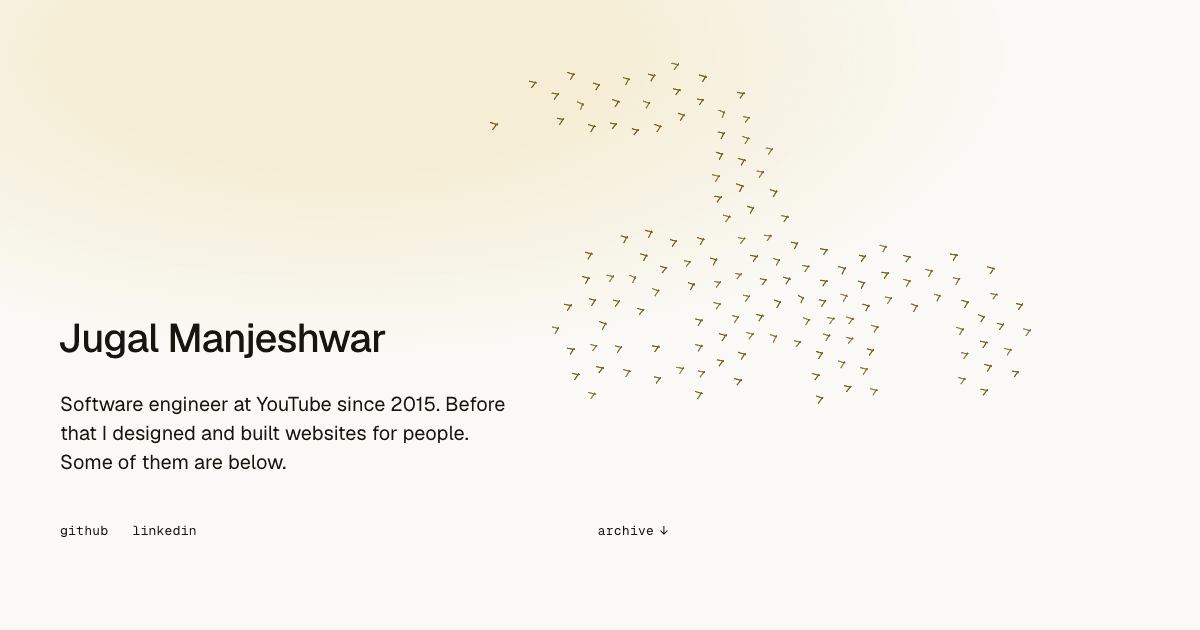
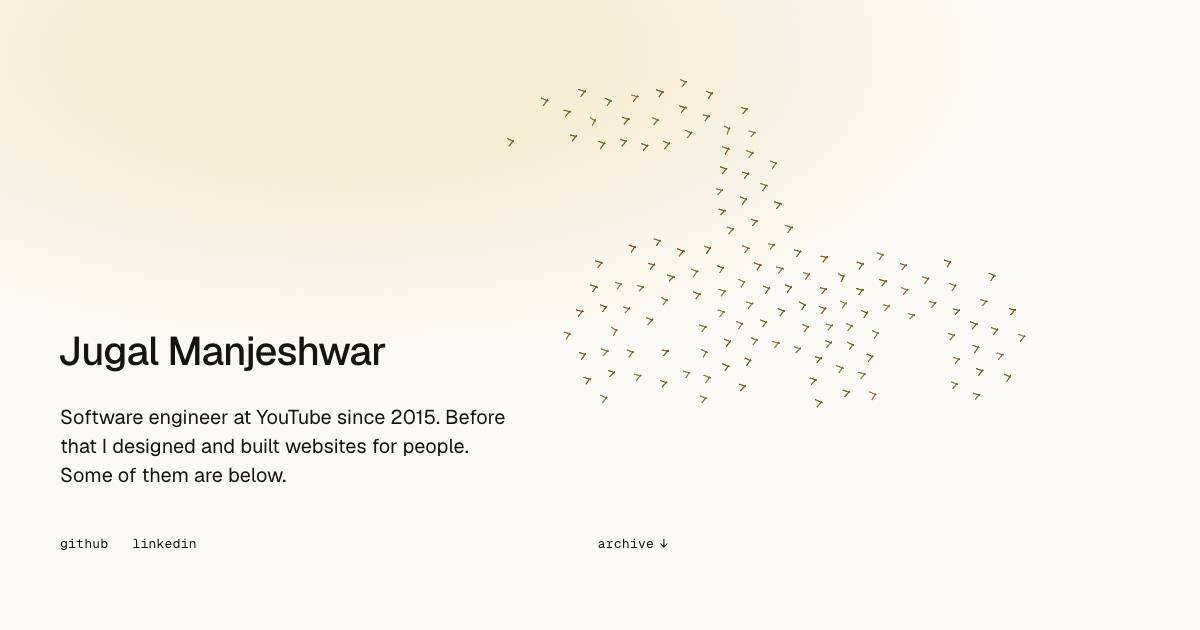
The flock fills the sky it is given, and the hero holds at any size
The mark was a fraction of the width under a flat 620 px cap, and the cap
bound above about 1476 px — so a 2560-wide desktop wore exactly the same mark
as a 1440 one and read as a small huddle marooned in a lot of empty page. It
now asks for min(40% of the canvas width, 58% of its height x aspect, 840).

A bird is one fixed size everywhere, so a wider mark is a wider point PITCH:
the flock spreads out and thins rather than magnifying, which is the whole
point — fill the space, don't zoom into it. As a multiple of the 10.4 px
wingspan: 1.73 at 1280, 1.93 at 1440, 2.22 at 1680, 2.52 at 1920, 2.59 at
2560. The fraction is 0.40 and not 0.42 precisely so 1440 keeps what it had;
0.42 asked for 655 px there, which overlapped enough content that the fit
ladder shrank it to 524 — smaller than before, in the one place it must not
move.

840 is where it stops, and that is legibility rather than taste. Uncapped,
2560 asked for 1126 px at a 3.31 pitch, and at that spacing the strokes stop
joining and the jm comes apart into a constellation: the same
pitch-to-wingspan failure the phone has from the other end, where the birds
weld into a blob. 2.6 is the last ratio at which it still reads.

The height term is desktop-only, and the gate is why. Applied to phones as
well it shrank the LANDSCAPE mark enough to drop its share of the words below
FIT_GIVEUP, which put a mark back onto a landscape phone — the exact failure
homeOut exists to prevent, caught by the check that pins it.
[…]

diff --git a/index.html b/index.html
@@ -84,7 +84,7 @@
 <canvas id="flock" aria-hidden="true"></canvas>
 <!-- Without script, a still of a seeded flock so the page is never blank. -->
 <!--STILL-->
-<svg class="still" viewBox="0 0 1560 1020" preserveAspectRatio="xMidYMid meet" aria-hidden="true" focusable="false"><polyline points="711.9,275.5 710.9,270.8 706.2,272.2" opacity="0.92"/><polyline points="1044.4,533.5 1048.1,536.6 1051.2,533.0" opacity="0.94"/><polyline points="656.8,297.4 653.9,293.5 650.4,296.8" opacity="1.00"/><polyline points="975.0,489.4 969.8,490.0 971.5,494.9" opacity="0.94"/><polyline points="629.8,518.8 625.3,516.5 624.9,521.5" opacity="0.83"/><polyline points="808.8,432.1 804.2,434.3 807.9,437.9" opacity="0.91"/><polyline points="632.4,277.4 630.5,272.6 626.5,275.8" opacity="0.95"/><polyline points="756.9,376.8 753.5,373.2 750.5,377.1" opacity="0.98"/><polyline points="1051.4,578.9 1047.6,575.9 1045.2,580.2" opacity="1.00"/><polyline points="825.6,445.8 822.6,450.1 827.5,451.6" opacity="1.00"/><polyline points="592.1,548.3 593.5,553.0 597.9,550.8" opacity="1.00"/><polyline points="631.0,568.1 628.2,572.4 633.2,573.2" opacity="0.82"/><polyline points="1123.2,315.1 1119.2,312.4 1116.9,316.6" opacity="0.79"/><polyline points="910.4,486.2 907.9,490.8 913.0,491.7" opacity="0.93"/><polyline points="787.2,443.5 790.7,447.0 794.4,443.6" opacity="1.00"/><polyline points="773.1,378.3 768.2,378.2 768.8,383.0" opacity="0.98"/><polyline points="863.4,597.5 867.2,593.9 862.6,591.4" opacity="0.98"/><polyline points="901.6,594.5 904.7,590.8 899.9,589.7" opacity="0.77"/><polyline points="885.5,592.5 889.8,590.0 886.6,586.3" opacity="1.00"/><polyline points="675.1,433.6 670.8,432.3 667.9,435.8" opacity="0.90"/><polyline points="871.5,534.1 869.2,529.7 866.2,533.6" opacity="0.88"/><polyline points="887.4,557.3 887.7,552.5 883.1,553.7" opacity="0.90"/><polyline points="516.6,293.6 511.5,293.4 512.5,298.4" opacity="1.00"/><polyline points="1071.6,527.4 1071.6,532.3 1076.0,530.2" opacity="0.80"/><polyline points="903.9,550.0 904.6,554.2 907.8,551.4" opacity="0.98"/><polyline points="980.7,491.9 985.7,491.0 983.8,486.3" opacity="0.92"/><polyline points="847.6,508.6 852.4,509.9 852.9,505.0" opacity="0.82"/><polyline points="1048.5,472.4 1053.6,471.6 1051.4,467.0" opacity="0.97"/><polyline points="933.0,490.7 928.3,492.8 931.5,496.9" opacity="0.83"/><polyline points="883.2,527.6 880.5,531.4 885.1,532.3" opacity="0.84"/><polyline points="786.5,472.1 791.2,470.8 787.9,467.2" opacity="0.98"/><polyline points="1054.7,518.2 1050.4,515.4 1048.7,520.2" opacity="0.86"/><polyline points="711.7,452.9 710.3,448.0 705.8,450.2" opacity="0.84"/><polyline points="969.8,475.0 964.7,475.3 965.8,480.3" opacity="0.88"/><polyline points="712.1,574.2 710.1,569.8 706.9,573.4" opacity="0.80"/><polyline points="574.3,278.0 570.0,275.5 568.3,280.1" opacity="0.90"/><polyline points="711.1,256.9 710.2,251.8 705.5,254.1" opacity="1.00"/><polyline points="695.2,572.3 690.2,571.4 691.0,576.5" opacity="0.94"/><polyline points="937.3,471.0 932.2,470.3 932.2,475.5" opacity="1.00"/><polyline points="953.2,473.5 948.8,470.7 947.1,475.6" opacity="0.77"/><polyline points="612.6,594.7 607.8,596.7 611.3,600.6" opacity="0.84"/><polyline points="575.2,516.4 571.4,513.3 570.3,518.1" opacity="0.90"/><polyline points="1030.0,532.4 1030.0,537.3 1034.5,535.4" opacity="0.91"/><polyline points="791.0,528.8 786.8,531.3 790.8,534.1" opacity="0.90"/><polyline points="674.7,293.5 670.2,295.8 673.8,299.3" opacity="0.99"/><polyline points="1051.9,596.0 1047.4,596.6 1047.5,601.1" opacity="0.97"/><polyline points="845.1,530.6 847.8,534.8 850.6,530.6" opacity="0.83"/><polyline points="965.1,446.1 966.1,451.0 970.8,449.2" opacity="0.99"/><polyline points="588.5,569.4 592.8,572.3 594.5,567.5" opacity="0.95"/><polyline points="674.0,548.4 670.2,551.9 674.5,554.7" opacity="1.00"/><polyline points="752.5,524.9 754.0,529.8 758.0,526.7" opacity="1.00"/><polyline points="851.1,476.8 848.0,472.8 844.5,476.4" opacity="0.82"/><polyline points="906.5,441.6 908.3,446.2 912.5,443.7" opacity="1.00"/><polyline points="819.5,468.7 823.8,471.6 825.0,466.6" opacity="0.93"/><polyline points="668.5,273.9 673.5,272.4 671.8,267.5" opacity="0.90"/><polyline points="752.4,484.7 753.1,489.7 757.3,487.0" opacity="0.80"/><polyline points="784.2,370.4 788.2,373.7 790.3,369.0" opacity="0.96"/><polyline points="1061.6,576.2 1066.4,574.9 1064.2,570.4" opacity="0.99"/><polyline points="1036.2,491.0 1032.5,494.5 1036.8,497.3" opacity="1.00"/><polyline points="881.3,534.3 884.0,538.2 887.2,534.6" opacity="0.83"/><polyline points="745.4,396.3 750.2,395.1 748.3,390.6" opacity="0.91"/><polyline points="793.1,485.3 790.8,490.0 795.9,490.9" opacity="0.98"/><polyline points="628.3,552.4 626.5,557.0 631.4,557.9" opacity="0.89"/><polyline points="784.1,401.3 785.9,396.4 780.8,396.5" opacity="1.00"/><polyline points="669.9,257.8 670.5,253.0 665.6,253.0" opacity="1.00"/><polyline points="633.1,494.4 629.1,491.4 626.9,495.9" opacity="0.85"/><polyline points="871.2,577.1 867.4,574.0 864.8,578.1" opacity="0.89"/><polyline points="731.1,573.4 725.9,573.0 726.9,578.1" opacity="0.87"/><polyline points="1061.8,556.8 1067.0,557.1 1065.8,552.0" opacity="0.78"/><polyline points="903.4,569.7 902.8,573.7 906.0,576.2" opacity="0.75"/><polyline points="771.8,553.9 767.0,553.8 767.2,558.6" opacity="0.98"/><polyline points="776.0,334.4 770.9,333.5 771.7,338.6" opacity="0.93"/><polyline points="770.8,291.8 770.5,297.0 775.7,297.2" opacity="0.79"/><polyline points="720.9,530.6 725.6,531.1 723.9,526.6" opacity="0.90"/><polyline points="753.5,288.6 754.2,293.7 758.9,291.4" opacity="0.89"/><polyline points="794.7,513.2 791.1,509.4 788.4,513.9" opacity="0.93"/><polyline points="692.9,448.0 689.7,450.6 690.5,454.6" opacity="0.99"/><polyline points="589.7,253.8 587.8,257.8 590.6,261.3" opacity="0.88"/><polyline points="633.1,297.1 631.4,292.5 627.8,295.9" opacity="1.00"/><polyline points="705.7,231.2 706.8,235.8 711.4,234.4" opacity="0.87"/><polyline points="771.4,269.1 773.3,273.6 776.7,270.0" opacity="1.00"/><polyline points="906.5,539.2 902.6,535.8 900.2,540.3" opacity="0.83"/><polyline points="731.1,256.4 729.4,251.7 725.0,254.0" opacity="1.00"/><polyline points="728.5,270.7 725.6,275.0 730.4,276.8" opacity="0.93"/><polyline points="730.9,546.5 727.2,549.9 731.7,552.1" opacity="0.86"/><polyline points="1026.4,475.3 1030.7,472.5 1027.0,469.0" opacity="0.87"/><polyline points="650.6,251.8 650.6,256.9 655.4,255.2" opacity="0.91"/><polyline points="870.3,448.9 865.7,450.8 869.3,454.3" opacity="1.00"/><polyline points="886.7,518.7 885.6,514.0 881.0,515.8" opacity="0.91"/><polyline points="614.2,296.3 610.8,292.5 608.6,297.0" opacity="0.93"/><polyline points="731.1,435.9 728.9,431.5 724.8,434.2" opacity="0.99"/><polyline points="755.1,310.1 752.0,313.9 756.8,315.0" opacity="0.91"/><polyline points="753.8,338.3 754.7,334.0 750.6,335.4" opacity="1.00"/><polyline points="864.2,489.0 869.0,490.6 868.5,485.6" opacity="0.93"/><polyline points="734.6,447.1 729.5,446.3 730.1,451.5" opacity="0.91"/><polyline points="679.6,445.7 674.5,446.8 677.3,451.2" opacity="0.97"/><polyline points="713.5,469.0 708.7,470.8 711.8,474.9" opacity="1.00"/><polyline points="614.8,252.3 610.3,254.7 614.2,258.1" opacity="0.99"/><polyline points="754.5,474.1 753.0,469.4 749.3,472.6" opacity="0.86"/><polyline points="676.2,475.2 671.3,473.5 671.5,478.6" opacity="0.79"/><polyline points="766.7,510.5 771.5,510.6 769.4,506.2" opacity="0.82"/><polyline points="884.2,466.5 886.6,470.8 889.3,466.7" opacity="0.91"/><polyline points="772.7,316.0 768.1,318.2 771.4,322.2" opacity="0.89"/><polyline points="615.2,472.9 610.3,471.9 611.5,476.7" opacity="1.00"/><polyline points="875.0,511.5 870.1,510.7 870.0,515.7" opacity="0.79"/><polyline points="727.3,596.3 723.9,592.8 722.2,597.4" opacity="0.83"/><polyline points="686.0,431.9 690.2,434.5 692.0,429.9" opacity="0.93"/><polyline points="657.2,493.5 652.4,492.4 652.2,497.4" opacity="0.90"/><polyline points="787.9,437.6 788.9,432.8 784.2,433.9" opacity="0.80"/><polyline points="807.5,406.7 807.6,411.5 812.4,410.9" opacity="0.91"/><polyline points="791.6,350.2 788.5,353.9 793.0,355.7" opacity="0.81"/><polyline points="548.4,262.4 545.0,258.7 542.1,262.8" opacity="0.89"/><polyline points="768.7,468.7 769.3,473.9 773.9,471.6" opacity="0.86"/><polyline points="1028.3,549.3 1032.0,552.6 1034.8,548.5" opacity="0.83"/><polyline points="623.6,471.5 628.4,471.8 626.6,467.3" opacity="0.80"/><polyline points="870.2,475.7 870.0,471.3 866.2,473.6" opacity="1.00"/><polyline points="801.6,449.4 806.8,449.3 806.5,444.1" opacity="0.87"/><polyline points="795.5,331.2 791.2,333.5 795.2,336.3" opacity="0.81"/><polyline points="903.1,470.3 908.2,469.9 905.8,465.4" opacity="1.00"/><polyline points="1068.8,516.3 1072.0,512.1 1067.2,510.2" opacity="1.00"/><polyline points="574.1,539.0 569.9,536.4 568.0,540.9" opacity="0.83"/><polyline points="1033.6,571.8 1030.8,576.1 1035.8,577.2" opacity="0.79"/><polyline points="775.9,570.7 770.8,570.6 772.2,575.5" opacity="1.00"/><polyline points="608.8,449.5 605.7,452.9 610.0,454.5" opacity="0.95"/><polyline points="609.6,549.3 610.5,554.3 614.7,551.6" opacity="0.83"/><polyline points="748.9,355.7 753.6,354.3 750.5,350.6" opacity="0.86"/><polyline points="1003.8,443.3 1007.2,446.8 1010.2,443.0" opacity="1.00"/><polyline points="1043.3,559.7 1047.9,557.3 1044.2,553.6" opacity="1.00"/><polyline points="752.8,547.9 750.9,552.7 756.1,552.7" opacity="0.97"/><polyline points="612.7,493.6 607.8,492.2 608.6,497.2" opacity="1.00"/><polyline points="771.3,494.5 772.6,489.8 767.8,489.2" opacity="0.82"/><polyline points="887.7,490.4 885.2,494.8 890.1,496.4" opacity="0.74"/><polyline points="570.5,288.6 570.8,293.8 575.7,292.1" opacity="1.00"/><polyline points="776.5,532.7 772.3,530.0 770.2,534.5" opacity="0.77"/><polyline points="602.5,575.3 607.5,576.2 607.5,571.1" opacity="1.00"/><polyline points="588.8,272.1 590.4,276.2 593.1,272.8" opacity="0.78"/><polyline points="863.3,550.0 868.4,550.5 867.1,545.5" opacity="1.00"/><polyline points="854.1,495.9 850.2,492.6 847.6,497.0" opacity="0.96"/><polyline points="655.2,472.5 650.4,472.7 652.6,477.1" opacity="0.88"/><polyline points="653.5,438.3 650.1,434.8 647.2,438.7" opacity="0.96"/></svg>
+<svg class="still" viewBox="0 0 1560 1020" preserveAspectRatio="xMidYMid meet" aria-hidden="true" focusable="false"><polyline points="719.7,264.9 715.2,262.2 713.8,267.2" opacity="0.82"/><polyline points="1050.5,526.2 1054.2,529.4 1057.3,525.7" opacity="0.93"/><polyline points="660.0,289.2 657.7,284.7 653.6,287.7" opacity="1.00"/><polyline points="980.5,484.0 975.3,483.3 976.0,488.5" opacity="0.91"/><polyline points="455.0,382.2 450.2,380.7 449.5,385.7" opacity="0.86"/><polyline points="812.5,422.9 809.3,426.7 813.5,429.3" opacity="0.87"/><polyline points="636.4,268.3 634.2,263.7 630.3,267.2" opacity="0.95"/><polyline points="761.9,368.3 758.0,365.1 755.7,369.6" opacity="0.95"/><polyline points="1057.7,572.2 1053.9,569.0 1051.5,573.4" opacity="1.00"/><polyline points="831.6,439.1 827.7,442.5 832.2,445.0" opacity="1.00"/><polyline points="596.0,541.4 597.2,546.1 601.7,544.3" opacity="1.00"/><polyline points="634.9,561.4 632.1,565.6 637.1,566.4" opacity="0.82"/><polyline points="1050.5,488.8 1055.6,489.6 1054.9,484.5" opacity="0.82"/><polyline points="915.1,478.3 913.0,483.0 918.2,483.5" opacity="0.95"/><polyline points="792.6,442.1 796.2,439.5 792.2,437.6" opacity="1.00"/><polyline points="777.6,370.3 772.8,370.1 773.3,375.0" opacity="0.98"/><polyline points="868.4,590.0 872.8,587.3 868.8,584.1" opacity="1.00"/><polyline points="906.2,581.8 910.6,584.2 910.8,579.2" opacity="0.73"/><polyline points="891.0,585.4 895.7,583.4 892.3,579.6" opacity="1.00"/><polyline points="679.2,427.6 675.0,424.7 671.6,428.6" opacity="0.90"/><polyline points="878.0,527.1 877.1,522.3 873.0,524.9" opacity="0.92"/><polyline points="892.8,549.4 893.8,544.8 889.1,545.5" opacity="0.89"/><polyline points="518.8,287.6 514.3,284.8 513.2,289.9" opacity="0.98"/><polyline points="1075.9,520.2 1077.7,525.1 1081.8,521.9" opacity="0.79"/><polyline points="909.9,541.5 910.9,546.5 915.9,545.0" opacity="1.00"/><polyline points="987.1,484.7 992.0,485.1 990.2,480.6" opacity="0.89"/><polyline points="853.4,502.0 858.2,502.3 857.8,497.5" opacity="0.85"/><polyline points="1058.7,469.5 1060.0,464.5 1054.9,465.0" opacity="0.97"/><polyline points="938.7,483.2 934.1,485.4 937.2,489.5" opacity="0.83"/><polyline points="928.5,445.8 933.2,444.1 929.8,440.4" opacity="0.89"/><polyline points="796.0,468.5 796.6,463.7 791.9,464.9" opacity="0.98"/><polyline points="1060.5,511.6 1056.5,508.3 1054.3,513.0" opacity="0.87"/><polyline points="717.9,444.2 714.5,440.3 711.7,444.7" opacity="0.78"/><polyline points="975.7,467.9 970.6,468.4 972.3,473.3" opacity="0.89"/><polyline points="716.9,567.0 715.1,562.5 711.7,566.0" opacity="0.81"/><polyline points="577.5,269.3 573.3,266.6 571.4,271.2" opacity="0.91"/><polyline points="715.5,248.1 714.4,243.0 709.8,245.4" opacity="1.00"/><polyline points="699.8,565.4 694.9,564.1 695.5,569.2" opacity="0.93"/><polyline points="943.0,463.2 937.9,463.6 938.9,468.5" opacity="1.00"/><polyline points="958.6,467.1 954.6,463.8 952.5,468.5" opacity="0.78"/><polyline points="616.3,588.0 611.5,590.0 614.9,593.8" opacity="0.84"/><polyline points="578.2,510.2 575.2,506.3 573.0,510.7" opacity="0.93"/><polyline points="1035.7,525.1 1036.1,530.1 1040.5,527.8" opacity="0.91"/><polyline points="796.6,522.0 792.0,524.4 795.5,528.3" opacity="0.90"/><polyline points="678.2,284.0 674.0,287.0 678.0,290.4" opacity="0.97"/><polyline points="1058.3,589.6 1053.8,589.8 1053.4,594.3" opacity="0.96"/><polyline points="851.1,522.9 853.8,527.3 857.3,523.5" opacity="0.85"/><polyline points="973.1,449.1 972.0,444.1 967.4,446.6" opacity="0.98"/><polyline points="592.8,562.0 596.4,565.5 598.4,560.9" opacity="0.96"/><polyline points="678.5,540.1 675.2,544.1 679.8,546.4" opacity="1.00"/><polyline points="764.3,522.0 759.3,522.7 760.9,527.5" opacity="1.00"/><polyline points="857.7,465.8 853.4,465.3 854.8,469.4" opacity="0.82"/><polyline points="908.1,438.8 913.0,439.1 912.5,434.2" opacity="1.00"/><polyline points="825.6,460.5 828.9,464.1 830.8,459.6" opacity="0.94"/><polyline points="676.8,268.1 677.4,263.5 673.4,261.2" opacity="0.80"/><polyline points="755.1,478.5 758.4,482.4 760.8,477.9" opacity="0.74"/><polyline points="788.7,362.5 792.8,365.7 794.8,360.9" opacity="0.95"/><polyline points="1067.5,568.0 1072.7,568.0 1071.0,563.0" opacity="0.96"/><polyline points="1040.4,482.8 1038.7,487.7 1043.8,487.7" opacity="1.00"/><polyline points="888.4,520.3 892.8,522.8 893.2,517.8" opacity="0.78"/><polyline points="759.5,387.8 754.7,387.2 754.8,392.1" opacity="0.87"/><polyline points="798.3,478.1 796.2,482.8 801.4,483.5" opacity="0.99"/><polyline points="632.2,545.3 630.4,550.2 635.6,550.4" opacity="0.91"/><polyline points="793.0,393.1 790.7,388.5 786.9,392.0" opacity="1.00"/><polyline points="674.1,249.3 674.3,244.1 669.2,245.0" opacity="1.00"/><polyline points="637.5,488.4 633.8,484.8 631.1,489.1" opacity="0.87"/><polyline points="877.9,569.4 873.6,567.1 871.8,571.6" opacity="0.86"/><polyline points="736.0,567.1 730.9,565.9 731.2,571.1" opacity="0.85"/><polyline points="1068.0,550.8 1073.1,550.1 1070.8,545.5" opacity="0.79"/><polyline points="909.4,561.3 909.0,566.4 914.1,567.1" opacity="0.82"/><polyline points="776.8,544.1 772.3,546.6 775.8,550.4" opacity="1.00"/><polyline points="780.4,323.4 775.5,325.2 778.5,329.4" opacity="0.98"/><polyline points="774.3,284.6 775.1,288.4 778.7,289.9" opacity="0.75"/><polyline points="725.4,524.3 730.6,523.7 728.6,518.9" opacity="0.93"/><polyline points="756.9,280.3 758.7,285.1 762.9,282.0" opacity="0.87"/><polyline points="800.8,505.2 796.6,502.4 794.5,507.1" opacity="0.91"/><polyline points="696.9,439.4 693.9,443.0 696.2,447.0" opacity="0.96"/><polyline points="592.7,244.5 591.3,248.7 594.6,251.8" opacity="0.87"/><polyline points="636.8,288.3 635.1,283.7 631.5,287.1" opacity="0.99"/><polyline points="709.7,221.8 711.0,226.8 715.5,224.2" opacity="0.86"/><polyline points="775.8,260.5 777.8,265.0 781.0,261.2" opacity="0.99"/><polyline points="913.9,527.2 908.8,527.0 910.1,532.1" opacity="0.88"/><polyline points="736.0,247.0 733.6,242.8 729.7,245.6" opacity="1.00"/><polyline points="733.1,262.4 729.8,266.4 734.6,268.4" opacity="0.95"/><polyline points="733.3,537.6 732.2,542.6 737.3,541.8" opacity="0.88"/><polyline points="1040.7,462.1 1037.6,466.0 1042.4,467.0" opacity="0.83"/><polyline points="653.6,243.0 654.3,247.9 659.0,246.2" opacity="0.91"/><polyline points="876.1,442.2 871.0,443.3 873.4,447.9" opacity="1.00"/><polyline points="893.0,511.1 892.0,506.3 887.4,508.0" opacity="0.91"/><polyline points="610.3,286.2 614.6,283.6 611.1,279.9" opacity="1.00"/><polyline points="735.4,428.2 733.2,423.8 729.1,426.5" opacity="0.99"/><polyline points="759.6,301.7 756.5,305.5 761.3,306.6" opacity="0.91"/><polyline points="758.2,330.0 759.2,325.7 755.1,327.0" opacity="1.00"/><polyline points="873.9,487.4 875.1,482.5 870.1,483.3" opacity="1.00"/><polyline points="738.9,439.8 733.8,438.7 734.1,443.8" opacity="0.90"/><polyline points="683.6,438.9 678.7,439.2 681.1,443.5" opacity="0.96"/><polyline points="717.9,461.9 712.9,463.2 715.6,467.7" opacity="1.00"/><polyline points="618.5,243.4 613.9,245.6 617.6,249.1" opacity="1.00"/><polyline points="761.1,466.1 758.1,462.0 755.4,466.2" opacity="0.82"/><polyline points="680.9,467.7 676.0,466.1 676.0,471.3" opacity="0.79"/><polyline points="771.7,504.3 776.8,503.5 774.4,498.9" opacity="0.84"/><polyline points="889.9,459.1 891.9,463.6 895.0,459.8" opacity="0.93"/><polyline points="777.1,307.4 772.7,309.8 775.9,313.6" opacity="0.88"/><polyline points="620.0,466.2 615.3,464.9 616.3,469.7" opacity="1.00"/><polyline points="881.3,504.0 876.3,502.9 876.0,507.9" opacity="0.78"/><polyline points="732.2,589.1 728.7,585.7 727.0,590.3" opacity="0.83"/><polyline points="690.2,424.1 694.3,426.7 696.2,422.2" opacity="0.94"/><polyline points="662.4,486.2 657.5,485.6 657.8,490.5" opacity="0.92"/><polyline points="790.2,428.5 794.0,425.2 789.4,423.1" opacity="0.78"/><polyline points="812.5,398.6 812.6,403.8 817.5,402.2" opacity="0.92"/><polyline points="796.5,342.7 793.2,345.7 797.4,347.3" opacity="0.83"/><polyline points="550.9,253.9 548.1,249.7 544.5,253.4" opacity="0.91"/><polyline points="771.3,462.6 774.4,466.6 777.0,462.2" opacity="0.79"/><polyline points="1039.2,540.4 1038.4,545.6 1043.5,545.0" opacity="0.88"/><polyline points="628.4,462.7 632.8,465.1 633.5,460.1" opacity="0.75"/><polyline points="879.9,465.3 875.2,464.1 875.8,468.9" opacity="0.96"/><polyline points="807.2,441.2 812.2,441.8 811.5,436.9" opacity="0.85"/><polyline points="800.1,322.5 796.0,325.2 800.2,327.8" opacity="0.80"/><polyline points="912.9,467.9 913.3,462.7 908.2,463.8" opacity="1.00"/><polyline points="1074.7,509.3 1078.0,505.3 1073.2,503.2" opacity="1.00"/><polyline points="577.5,532.2 573.6,529.3 571.4,533.7" opacity="0.84"/><polyline points="1041.6,571.3 1036.9,569.1 1036.6,574.3" opacity="0.76"/><polyline points="781.3,563.7 776.1,563.6 777.5,568.6" opacity="1.00"/><polyline points="610.1,442.3 609.9,446.3 613.5,444.5" opacity="0.99"/><polyline points="612.5,542.5 614.1,547.4 618.2,544.2" opacity="0.82"/><polyline points="753.2,346.9 758.1,346.2 756.7,341.4" opacity="0.86"/><polyline points="1011.0,437.2 1014.1,441.2 1017.5,437.4" opacity="1.00"/><polyline points="1225.6,382.9 1223.5,378.4 1219.5,381.2" opacity="1.00"/><polyline points="758.0,540.7 756.2,545.5 761.3,545.3" opacity="0.98"/><polyline points="617.0,486.1 612.1,485.6 613.9,490.2" opacity="1.00"/><polyline points="776.9,487.6 777.9,482.7 772.9,482.5" opacity="0.83"/><polyline points="889.3,482.4 891.2,486.9 895.4,484.3" opacity="0.80"/><polyline points="573.7,279.9 574.0,285.0 578.9,283.5" opacity="1.00"/><polyline points="778.9,528.0 777.8,522.9 773.2,525.4" opacity="0.84"/><polyline points="606.1,569.3 611.1,569.4 610.4,564.4" opacity="1.00"/><polyline points="591.9,263.0 593.9,267.2 596.7,263.5" opacity="0.77"/><polyline points="877.5,538.5 874.6,542.9 879.7,544.0" opacity="1.00"/><polyline points="859.1,488.8 855.7,485.4 854.0,489.9" opacity="0.93"/><polyline points="659.1,468.6 655.2,465.6 654.1,470.4" opacity="0.79"/><polyline points="658.0,431.0 654.6,427.4 651.7,431.3" opacity="0.96"/></svg>
 <!--/STILL-->
 
 <header class="hero" id="top">

diff --git a/js/flock.js b/js/flock.js
@@ -67,8 +67,12 @@ export const STEP = 1 / 60;            // fixed simulation step
 const MAX_STEPS = 4;                   // per frame, before we drop time instead
 const TAU = Math.PI * 2, PI = Math.PI, DEG = Math.PI / 180;
 
-// Condensing the mark when the viewport has no rail for it (DESIGN.md).
+// Condensing the mark when the viewport has no rail for it (DESIGN.md). How big
+// it wants to be in the first place is the page's call — see main.js homeSize —
+// and that is where it scales with the room; this ladder only ever takes size
+// AWAY, when the room turns out to be full of words.
 const FIT_STEPS = [1, 0.8, 0.64];      // a step or two, never continuous
+const MARK_M = 34;                     // px of breathing room around the mark box
 const FIT_SHRINK = 0.04, FIT_GROW = 0.008;  // shrink over, grow under — two, so it can't breathe
 const FIT_EVERY = 0.3, FIT_DWELL = 1.1;     // s: re-decide rate, and dwell after a step
 const FIT_GIVEUP = 0.18, FIT_RETURN = 0.06; // even the smallest step stands on words: no mark
@@ -349,7 +353,7 @@ export class Flock {
   // clearly better, so near-ties never make the mark hop — `raw` skips it,
   // for the what-if solves that choose the size. ~60 candidates, microseconds.
   _solveHome(S, raw = false) {
-    const M = 34;                       // breathing room around the mark
+    const M = MARK_M;                   // breathing room around the mark
     const w = this.w, h = this.h, scroll = this.scroll;
     const bw = S.w + 2 * M, bh = S.h + 2 * M;
     const score = (cx, cy) => {
@@ -435,6 +439,12 @@ export class Flock {
       this._fitAt = this.time + FIT_DWELL; this._assign(false);
       return this.homeFit;
     }
+    // Growing has a second question shrinking never has to ask: does the bigger
+    // mark still fit on the canvas at all? `coverAt` only measures overlap with
+    // CONTENT, so an empty viewport would happily hand back 0 for a mark twice
+    // the size of the sky it has to live in.
+    const roomFor = (k) => req.w * FIT_STEPS[k] + 2 * MARK_M <= this.w
+                        && req.h * FIT_STEPS[k] + 2 * MARK_M <= this.h;
     const i = Math.max(0, FIT_STEPS.indexOf(this.homeFit));
     const cover = coverAt(i);
     let next = i;
@@ -447,7 +457,7 @@ export class Flock {
       // it — a markless flock that LOITERED would feel no field at all.
       else if (cover > FIT_GIVEUP) { this.homeOut = true; this._fitAt = this.time + FIT_DWELL; return 0; }
     }
-    else if (i > 0 && coverAt(i - 1) <= FIT_GROW) next = i - 1;
+    else if (i > 0 && roomFor(i - 1) && coverAt(i - 1) <= FIT_GROW) next = i - 1;
     if (next !== i) { this.homeFit = FIT_STEPS[next]; this._fitAt = this.time + FIT_DWELL; this._assign(false); }
     return this.homeFit;
   }

diff --git a/js/main.js b/js/main.js
@@ -381,9 +381,30 @@ function onTilt(e) {
 // across a phone — at which point the strokes cannot separate and the jm
 // collapses into a blob however many birds you throw at it. Phones therefore
 // give the mark a much larger share of a much smaller canvas.
+// The mark grows with the room, but not forever: past this the point pitch
+// outruns the wingspan and the strokes stop joining up — the same pitch-to-span
+// limit the phone hits from the other side, where the birds weld into a blob.
+// 840 px is a 2.6:1 pitch-to-wingspan, measured as the last width at which the
+// jm still reads; at 2560 uncapped (3.3:1) it had come apart into a constellation.
+const MARK_MAX = 840;
+// It scales with the room it has, in BOTH axes. This used to be a fraction of
+// the width under a flat 620 px cap, which meant a 2560-wide desktop wore the
+// same mark as a 1440 one: past ~1476 px the cap bound, the flock stopped
+// growing with the sky, and it read as a small huddle marooned in a lot of empty
+// page. A bird is one fixed size everywhere, so a wider mark is a wider point
+// PITCH — the flock spreads out and thins rather than getting bigger, which is
+// the whole point: fill the space, don't magnify into it. The second term is the
+// height, because a short wide window has no more room than a square one; it is
+// what stops a letterbox viewport asking for a mark taller than its own sky.
+// The height term is DESKTOP ONLY. Applied to a phone it also shrank the
+// landscape case, which dropped the mark's share of the words below the
+// stand-down threshold and put a mark back on a viewport that has no room for
+// one — the exact failure `homeOut` exists to prevent, and the gate caught it.
+// Phones keep the share they were tuned to; nothing about them changes here.
 function homeSize() {
-  const { w } = world;
-  const bw = Math.min(w * (vw() < 700 ? 0.66 : 0.42), 620);
+  const { w, h } = world;
+  const bw = vw() < 700 ? Math.min(w * 0.66, MARK_MAX)
+                        : Math.min(w * 0.4, h * 0.58 * MARK_ASPECT, MARK_MAX);
   return { w: bw, h: bw / MARK_ASPECT };
 }
 // Even at 66% the phone mark is a ~10 px point pitch against a 10.4 px

diff --git a/css/style.css b/css/style.css
@@ -294,8 +294,17 @@ body::before {
   min-height: var(--vh, 100svh);
   display: grid;
   align-content: end;
-  padding: var(--gutter);
-  padding-bottom: calc(var(--gutter) + env(safe-area-inset-bottom));
+  /* The gutter is derived from the WIDTH, which is the wrong axis for the one
+   * padding that has to share a budget with the text. On a short, wide window —
+   * 1280x360, a laptop with the window dragged flat — it took 64 px off each end
+   * of a 360 px viewport, 36% of it, and the hero grew taller than the screen it
+   * is supposed to be exactly as tall as. Vertically it is therefore whichever
+   * is smaller, the gutter or a twelfth of the height, off the same `--vh` the
+   * box is measured against so the two cannot disagree. It binds only where the
+   * viewport is genuinely short: every ordinary size still gets the full gutter. */
+  --gutter-y: min(var(--gutter), calc(var(--vh, 100svh) * 0.08));
+  padding: var(--gutter-y) var(--gutter);
+  padding-bottom: calc(var(--gutter-y) + env(safe-area-inset-bottom));
   padding-left: calc(var(--gutter) + env(safe-area-inset-left));
 }
 .hero-text { max-width: 38rem; }
@@ -316,7 +325,10 @@ h1 {
   text-wrap: pretty;
   max-width: 34ch;
 }
-.hero-links { display: flex; gap: 1.5rem; margin-top: 1.75rem; list-style: none; padding: 0; font-family: var(--mono); font-size: .8125rem; letter-spacing: .02em; text-transform: lowercase; }
+/* margin, not margin-top: the UA's own `ul { margin-block: 1em }` was surviving
+ * underneath, so the hero cleared the bottom by the gutter PLUS an accidental
+ * 13 px nobody chose, and the whole block sat that much high. */
+.hero-links { display: flex; gap: 1.5rem; margin: 1.75rem 0 0; list-style: none; padding: 0; font-family: var(--mono); font-size: .8125rem; letter-spacing: .02em; text-transform: lowercase; }
 .hero-links a { display: inline-block; padding: .25rem 0; min-height: 44px; line-height: 44px; }
 .hero-links li:last-child { margin-left: auto; }
 /* The arrow keeps its own slow bob, pointing the way down the page. It rides on

diff --git a/DESIGN.md b/DESIGN.md
@@ -166,6 +166,28 @@ fallback. The main thread only sends small messages (pointer, where home is).
   phone keeps the size and halves the *grid*: `MARK_THIN` (main.js) takes a checkerboard of
   the sampled points, the pitch grows 1.4×, and 120 birds fill every point that remains
   instead of two-thirds of 208 — the strokes separate again.
+- **The mark grows with the room it has, and the SPACING is what grows.** It used to be a
+  fraction of the width under a flat 620 px cap, which bound above about 1476 px — so a
+  2560-wide desktop wore exactly the same mark as a 1440 one, and read as a small huddle
+  marooned in a lot of empty page. It is now `min(40 % of the canvas width, 58 % of its
+  height × aspect, 840)`. Because a bird is one fixed size everywhere, a wider mark is a
+  wider point **pitch**: the flock spreads out and thins rather than magnifying. Measured, as
+  a multiple of the 10.4 px wingspan — 1.73 at 1280, 1.93 at 1440, 2.22 at 1680, 2.52 at
+  1920, 2.59 at 2560. The fraction is 0.40 rather than 0.42 precisely so 1440 keeps the size
+  it had: 0.42 asked for 655 px there, which overlapped enough content that the fit ladder
+  *shrank* it to 524 — smaller than before the change, in the one place it must not move.
+  - **840 px is where it stops, and that is a legibility limit rather than a taste.**
+    Uncapped, 2560 asked for 1126 px at a 3.31 pitch, and at that spacing the strokes stop
+    joining and the *jm* comes apart into a constellation — the same pitch-to-wingspan
+    failure a phone has from the other side, where the birds weld into a blob. 2.6 is the
+    last ratio at which it still reads; both ends were photographed.
+  - **The height term is desktop-only.** A short wide window has no more room than a square
+    one, so the request is capped against the canvas height too. Applied to phones as well it
+    shrank the *landscape* mark enough to drop its share of the words below `FIT_GIVEUP`,
+    which put a mark back onto a landscape phone — the exact failure `homeOut` exists to
+    prevent. The gate caught it. Phones keep the share they were tuned to.
+  - `tools/still.mjs` carries its own copy of this formula, having no DOM to ask, so **the
+    two are changed together**; the comment there says so.
 - **Bird count is free; canvas area is not.** Measured on a throttled phone (iPhone 13
   emulation at 4× and 6× CPU): 60, 90, 120, 140 and 200 birds all hold 60 draws/s with zero
   frames over 20 ms. The phone count sat at 60 for no benefit that could be measured — the
@@ -552,7 +574,21 @@ flock owns the rest; the hero text recedes on scroll (scroll-driven animation).
   no-script floor: wrong by 46 px, but never hiding anything. Verified at 718 / 724 / 844 px
   of visible height — hero matches all three, links clear the bottom by the full gutter, the
   archive never peeks. The sheet keeps `dvh`: nothing in it is bottom-anchored and it
-  scrolls internally, so an over-reported height hides nothing you cannot reach. The hero's
+  scrolls internally, so an over-reported height hides nothing you cannot reach.
+  **Two things about that clearance were wrong.** The links carried the UA's own
+  `ul { margin-block: 1em }` underneath a rule that set only `margin-top`, so the hero cleared
+  the bottom by the gutter *plus* an accidental 13 px nobody chose, and the whole block sat
+  that much high. And the gutter comes from the **width**, which is the wrong axis for the one
+  padding that shares a budget with the text: at 1280×360 — a laptop with its window dragged
+  flat — it took 64 px off each end of a 360 px viewport, 36 % of it, and the hero grew taller
+  than the screen it is supposed to be exactly as tall as. Vertically the hero now takes
+  whichever is smaller, the gutter or a twelfth of `--vh` — the same height the box is measured
+  against, so the two cannot disagree. It binds only where the viewport is genuinely short;
+  every ordinary size still gets the full gutter.
+  **Pinned across 8 viewports in `check.mjs`**, 320×480 to 2560×1440 plus a 1440×300: the name
+  and the links are above the fold, the links clear the bottom by exactly the padding, the hero
+  is never taller than the viewport, and the document is never wider than it. Swept by hand
+  across 25 sizes first — phones, landscape phones, tablets, laptops, ultrawides and absurdities. The hero's
 `archive ↓` link keeps a slow 2.6 s bob on its arrow, eased at both ends so it hangs at the
 top and bottom of the travel — the one piece of motion on the page that is *pointing* at
 something. It rides `translate` while the hover nudge stays on `transform`, because the two
@@ -843,7 +879,8 @@ focus rings. ≥ 44 px targets. Every screenshot has a real description.
   shipped as screenshots, pinned (landscape stand-down, the thinned phone grid, the theme
   switch under blocked storage — all on `?still&mainthread`, stepping the sim by hand so
   each is deterministic and takes milliseconds; plus the perch, which is run live rather
-  than stepped, because it is a flight); and offline: kill the network, reload,
+  than stepped, because it is a flight; plus the hero across eight viewports, which is
+  layout and needs no flock at all); and offline: kill the network, reload,
   and the page, the flock and a sheet with its screenshot must all still be there.
 - **Gates, other engines** (`tools/engines.mjs`): the same site in WebKit and Firefox —
   the engines where the risky dependencies actually differ (OffscreenCanvas in a module
